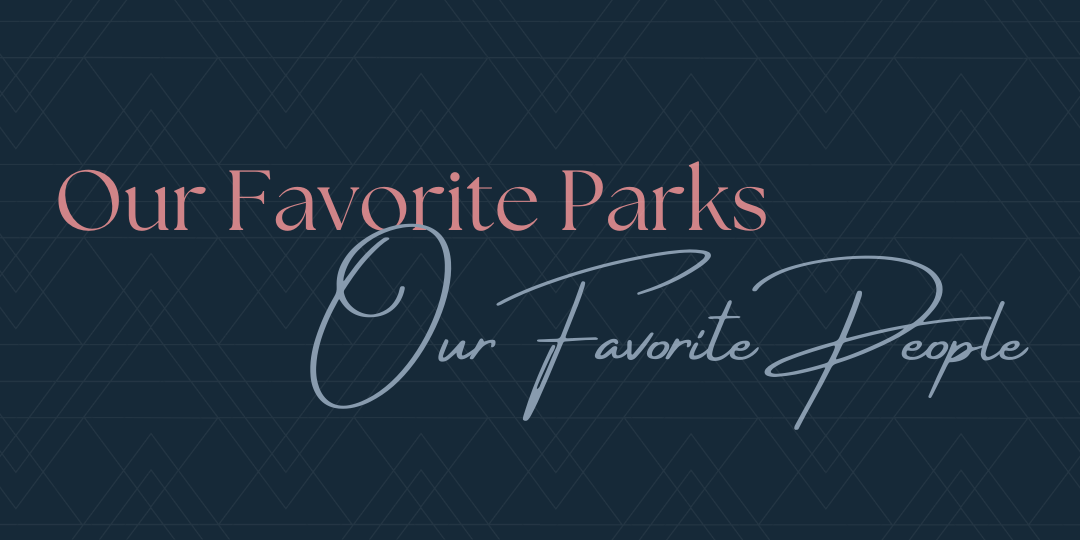
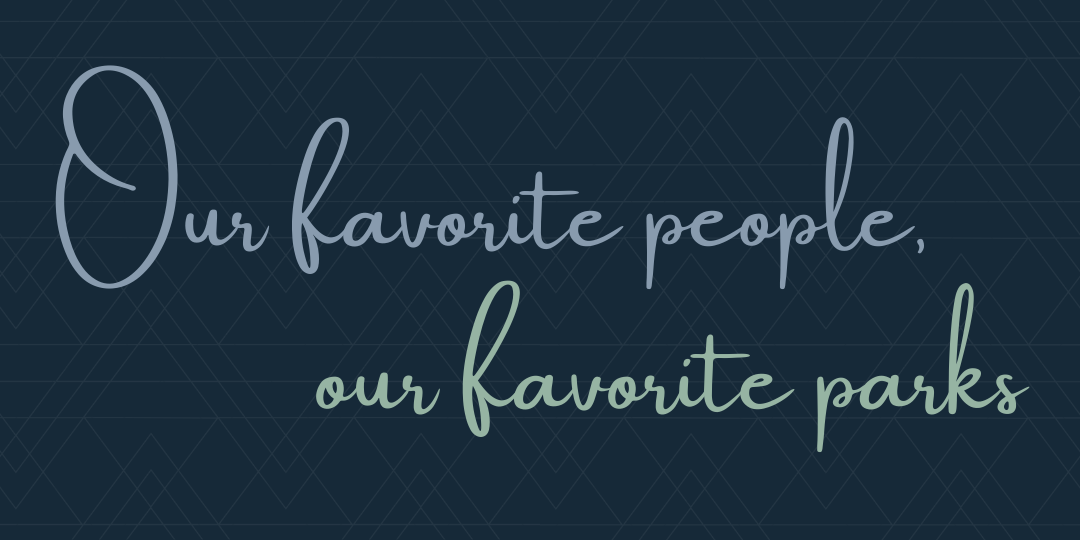
styles update

Changed region(s): [[0.0306, 0.1185, 0.9472, 0.8296]]

diff --git a/src/app/home-page/home-page.component.html b/src/app/home-page/home-page.component.html
@@ -1,13 +1,13 @@
 <div class="container">
     <p-toast></p-toast>
     <div class="col-md-12">
-        <img class="title" src="assets\title2.gif">
+        <img class="title" src="assets\new_title.png">
     </div>
     <div class="content-container col-md-12">
         <p-autoComplete [(ngModel)]="text" [suggestions]="filteredNames" (completeMethod)="search($event)"
             [placeholder]="'Enter your first name'" [dropdown]="true" (onSelect)="select($event)"></p-autoComplete>
         <br>
-        <div class="displayTableInfo" *ngIf="selectedName"> Hey {{selectedName}}, you are at the
-            {{data[selectedName]}} table!</div>
+        <div class="displayTableInfo" *ngIf="selectedName"> Hey <span class = "display-bold">{{selectedName}}</span>, you are at the
+            <span class = "display-bold">{{data[selectedName]}} Table</span>!</div>
     </div>
 </div>

diff --git a/src/styles.css b/src/styles.css
@@ -1,7 +1,7 @@
 @import '~bootstrap/dist/css/bootstrap.min.css';
 :root {
     --dusty-blue: #889bae;
-    --secondary-color: #d08488;
+    --secondary-color: #96b4a3;
 
 }
 
@@ -10,8 +10,8 @@
 }
 
 .p-button {
-    background: var(--secondary-color) !important;
-    border: var(--secondary-color) !important;
+    background: var(--dusty-blue) !important;
+    border: var(--dusty-blue) !important;
 }
 
 .p-inputtext:enabled:focus {
@@ -34,6 +34,6 @@
 }
 
 .p-toast {
-    width: 50% !important;
-    font-size: 10px !important;
+    width: 90vw !important;
+    font-size: 15px !important;
 }

diff --git a/src/app/home-page/home-page.component.ts b/src/app/home-page/home-page.component.ts
@@ -21,12 +21,12 @@ export class HomePageComponent implements OnInit {
 
   data =
     {
-      "Aron Jang": "Hermann",
-      "John Doe": "Terry Hershey",
-      "Alex Jang": "Waterwall",
-      "Rose Lee": "Waterwall",
-      "Jimmy Jang": "Buffalo Bayou",
-      "Derry Jang": "Eastern Glades"
+      "Aron Jang": "Hermann Park",
+      "John Doe": "Terry Hershey Park",
+      "Alex Jang": "Waterwall Park",
+      "Rose Lee": "Waterwall Park",
+      "Jimmy Jang": "Buffalo Bayou Park",
+      "Derry Jang": "Eastern Glades Park"
     };
 
   search(event) {

diff --git a/src/app/home-page/home-page.component.css b/src/app/home-page/home-page.component.css
@@ -14,13 +14,20 @@
 
 .displayTableInfo {
     color: var(--dusty-blue);
-    font-weight: 500;
-    padding: 20px 0px;
+    font-weight: 300;
+    padding: 50px 0px;
+    font-size: 30px;
+    text-align: center;
     font-family: Georgia, 'Times New Roman', Times, serif;
 }
 
+.display-bold {
+    font-weight: 700;
+    color: var(--secondary-color);
+}
+
 .content-container {
-    padding: 15px;
+    padding: 50px 15px;
 }
 
 
